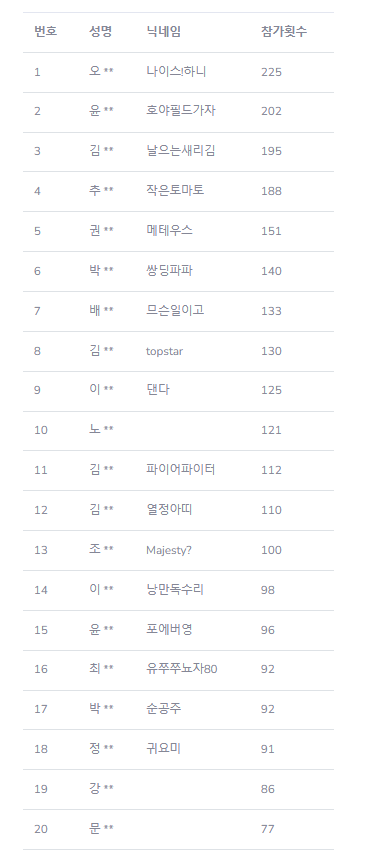
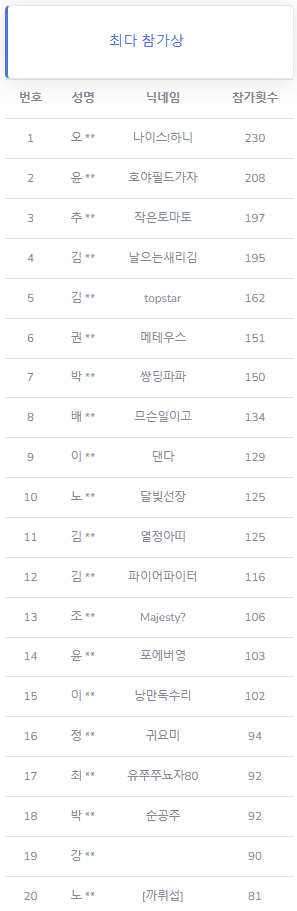
10월 1일

diff --git a/routes/golf.js b/routes/golf.js
@@ -1229,6 +1229,9 @@ router.get('/ksfaga', function(req, res){
 router.get('/regu', function(req, res){
     res.render("regu")
 })
+router.get('/trophy', function(req, res){
+    res.render("trophy")
+})
 router.get('/bkecho', function(req, res){
     res.render("bkecho")
 })
